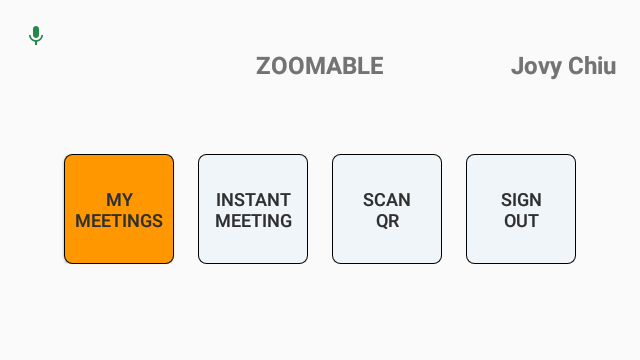
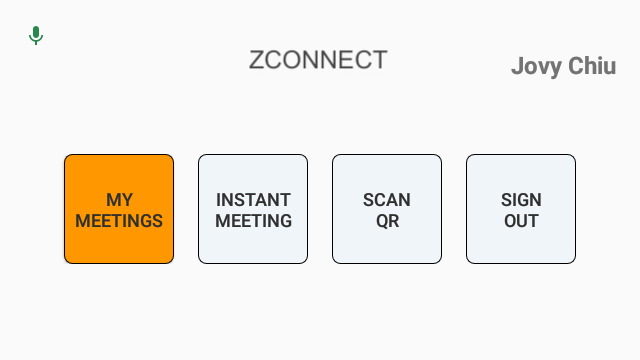
ui updates

Changed region(s): [[0.375, 0.1222, 0.625, 0.2139]]

diff --git a/src/examples/Sidenav/index.js b/src/examples/Sidenav/index.js
@@ -146,12 +146,12 @@ function Sidenav({ routes, ...rest }) {
           <SuiBox
             component="img"
             src={AppLogo}
-            alt="ZOOMABLE"
+            alt="ZCONNECT"
             customClass={classes.sidenav_logo}
           />
           <SuiBox customClass={classes.sidenav_logoLabel}>
             <SuiTypography component="h6" variant="button" fontWeight="medium">
-              ZOOMABLE
+              ZCONNECT
             </SuiTypography>
           </SuiBox>
         </NavLink>

diff --git a/src/layouts/meetings/index.js b/src/layouts/meetings/index.js
@@ -167,7 +167,7 @@ useEffect(() => {loadZoomMeetings();}, [loadMeetings])
       <SuiBox py={3}>
         <SuiBox mb={3}>
             <SuiTypography variant='body2'>
-              You can add members in the meeting and create Zoom meeting through ZOOMABLE
+              You can add members in the meeting and create Zoom meeting through ZCONNECT
             </SuiTypography>
           </SuiBox>
           {showToastMessage(showToast, "success", "Meeting link copied!", handleClose)}

diff --git a/src/examples/Footer/index.js b/src/examples/Footer/index.js
@@ -75,9 +75,9 @@ function Footer({ company, links }) {
 
 // Setting default values for the props of Footer
 Footer.defaultProps = {
-  company: { href: "/home", name: "ZOOMABLE" },
+  company: { href: "/home", name: "ZCONNECT" },
   links: [
-    { href: "/home", name: "ZOOMABLE" },
+    { href: "/home", name: "ZCONNECT" },
     { href: "/about", name: "ABOUT" },
     { href: "/privacy", name: "PRIVACY POLICY" },
     { href: "/tos", name: "TERMS OF SERVICE" },

diff --git a/src/examples/Navbars/DefaultNavbar/index.js b/src/examples/Navbars/DefaultNavbar/index.js
@@ -82,7 +82,7 @@ function DefaultNavbar({ transparent, light, action }) {
       >
         <SuiBox component={Link} to="/" py={transparent ? 1.5 : 0.75}>
           <SuiTypography variant="button" fontWeight="bold" textColor={light ? "white" : "dark"}>
-            ZOOMABLE
+            ZCONNECT
           </SuiTypography>
         </SuiBox>
         <SuiBox color="inherit" display={{ xs: "none", lg: "flex" }} m={0} p={0}>

diff --git a/src/layouts/docs/help/content.js b/src/layouts/docs/help/content.js
@@ -14,7 +14,7 @@ import appHome from "assets/screens/app/meetings.png";
 import appMeetingList from "assets/screens/app/meeting-list.png";
 import appScan from "assets/screens/app/scan-qr.png";
 import appMeetingStart from "assets/screens/app/meeting-start.png";
-import imgDisconnect from "assets/screens/disconnect.png";
+import imgDisconnect from "assets/screens/zoom-disconnect.png";
 
 const imgWidth = 600
 
